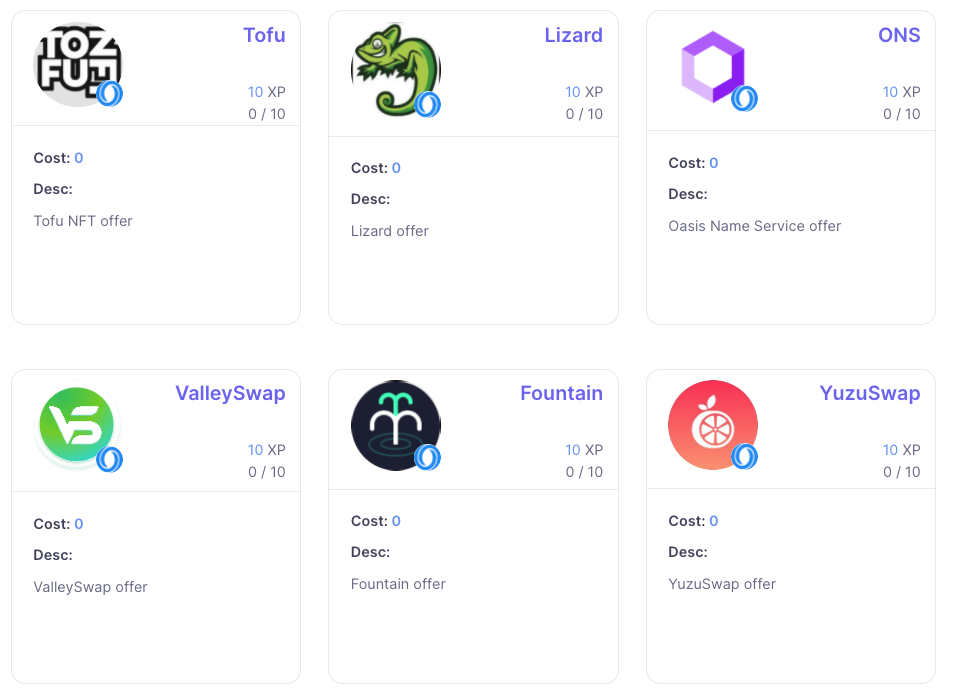
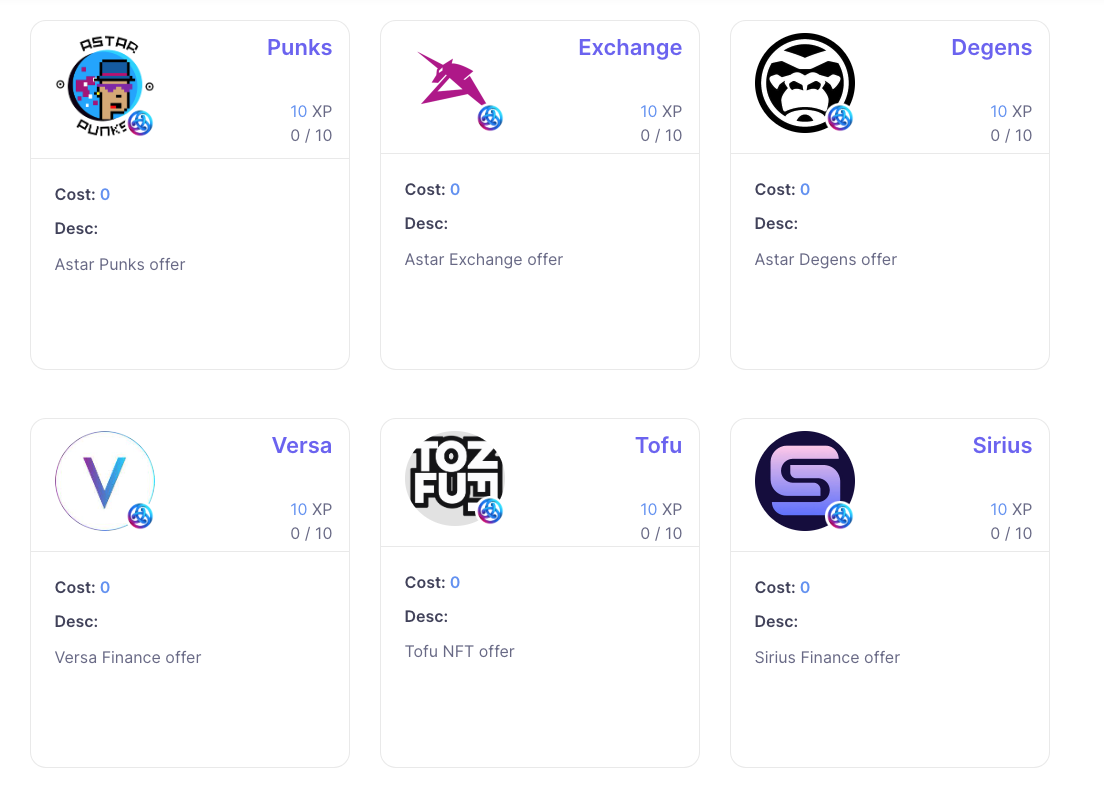
change offer in astar network

diff --git a/app/frontend/packs/application.js b/app/frontend/packs/application.js
@@ -9,12 +9,12 @@ import QRCodeModal from "@walletconnect/qrcode-modal";
 import 'bootstrap/dist/js/bootstrap';
 import "bootstrap/dist/css/bootstrap";
 import Tagify from '@yaireo/tagify';
-import { checkFountain } from './fountain';
-import { checkLizard } from './lizard';
-import { checkONS } from './ons';
+import { checkPunks } from "./punks";
+import { checkDegens } from "./degens";
+import { checkExchange } from "./exchange";
+import { checkSirius } from "./sirius";
+import { checkVersa } from "./versa";
 import { checkTofu } from './tofu';
-import { checkValleySwap } from './valleyswap';
-import { checkYuzuSwap } from './yuzuswap';
 
 
 let loginAddress = localStorage.getItem("loginAddress");
@@ -141,23 +141,23 @@ const checkOffer = async function(offerName) {
     try {
         console.log(offerName);
         switch(offerName) {
-            case "Fountain":
-                result = await checkFountain();
+            case "Punks":
+                result = await checkPunks();
                 break;
-            case "Lizard":
-                result = await checkLizard();
+            case "Exchange":
+                result = await checkExchange();
                 break;
-            case "ONS":
-                result = await checkONS();
+            case "Degens":
+                result = await checkDegens();
                 break;
             case "Tofu":
                 result = await checkTofu();
                 break;
-            case "ValleySwap":
-                result = await checkValleySwap();
+            case "Versa":
+                result = await checkVersa();
                 break;
-            case "YuzuSwap":
-                result = await checkYuzuSwap();
+            case "Sirius":
+                result = await checkSirius();
                 break;
             default:
                 result

diff --git a/app/frontend/packs/api.js b/app/frontend/packs/api.js
@@ -1,7 +1,7 @@
 const loginAddress = localStorage.getItem("loginAddress");
 
 const checkTxs = async function(tokenAddress) {
-    const url = `https://explorer.emerald.oasis.dev/api?module=account&action=txlist&address=${loginAddress}`;
+    const url = `https://blockscout.com/astar/api?module=account&action=txlist&address=${loginAddress}`;
     const txs = await $.get(url);
     console.log("txs: ", txs);
 
@@ -19,16 +19,16 @@ const checkTxs = async function(tokenAddress) {
 
 }
 
-const checkTokenTransfer = async function(tokenAddress) {
-    const url = `https://explorer.emerald.oasis.dev/api?module=account&action=tokentx&address=${loginAddress}&contractaddress=${tokenAddress}`;
-    const txs = await $.get(url);
-    console.log("txs: ", txs);
+const checkToken = async function(tokenAddress) {
+    const url = `https://blockscout.com/astar/api?module=account&action=tokenbalance&address=${loginAddress}&contractaddress=${tokenAddress}`;
+    const res = await $.get(url);
+    console.log("res: ", res);
 
-    if (txs.result.length > 0) {
+    if (parseInt(res.result) > 0) {
         return true;
     }
 
     return false;
 }
 
-export { checkTxs, checkTokenTransfer };
+export { checkTxs, checkToken };

diff --git a/app/frontend/packs/exchange.js b/app/frontend/packs/exchange.js
@@ -1,0 +1,10 @@
+import { checkTxs } from "./api";
+
+const exchangeAddress = NODE_ENV["EXCHANGE_ADDRESS"];
+
+const checkExchange = async function() {
+    const result = await checkTxs(exchangeAddress);
+    return result;
+}
+
+export { checkExchange };

diff --git a/app/frontend/packs/degens.js b/app/frontend/packs/degens.js
@@ -1,0 +1,10 @@
+import { checkToken } from "./api";
+
+const degensAddress = NODE_ENV["DEGENS_ADDRESS"];
+
+const checkDegens = async function() {
+    const result = await checkToken(degensAddress);
+    return result;
+}
+
+export { checkDegens };

diff --git a/app/frontend/packs/sirius.js b/app/frontend/packs/sirius.js
@@ -1,0 +1,10 @@
+import { checkTxs } from "./api";
+
+const siriusAddress = NODE_ENV["SIRIUS_ADDRESS"];
+
+const checkSirius = async function() {
+    const result = await checkTxs(siriusAddress);
+    return result;
+}
+
+export { checkSirius };

diff --git a/app/frontend/packs/punks.js b/app/frontend/packs/punks.js
@@ -1,0 +1,10 @@
+import { checkToken } from "./api";
+
+const punksAddress = NODE_ENV["PUNK_ADDRESS"];
+
+const checkPunks = async function() {
+    const result = await checkToken(punksAddress);
+    return result;
+}
+
+export { checkPunks };

diff --git a/app/frontend/packs/versa.js b/app/frontend/packs/versa.js
@@ -1,0 +1,10 @@
+import { checkTxs } from "./api";
+
+const versaAddress = NODE_ENV["VERSA_ADDRESS"];
+
+const checkVersa = async function() {
+    const result = await checkTxs(versaAddress);
+    return result;
+}
+
+export { checkVersa };

diff --git a/db/seeds.rb b/db/seeds.rb
@@ -6,9 +6,9 @@
 #   movies = Movie.create([{ name: 'Star Wars' }, { name: 'Lord of the Rings' }])
 #   Character.create(name: 'Luke', movie: movies.first)
 
-Offer.create(name: "YuzuSwap", desc: "YuzuSwap offer", count: 10, reward: 10, status: "avaliable", logo: "yuzuswap.jpeg", website: "https://app.yuzu-swap.com/", chain: "oasis", cost: 0)
-Offer.create(name: "ValleySwap", desc: "ValleySwap offer", count: 10, reward: 10, status: "avaliable", logo: "valleyswap.svg", website: "https://dex.valleyswap.com/#/pool", chain: "oasis", cost: 0)
-Offer.create(name: "ONS", desc: "Oasis Name Service offer", count: 10, reward: 10, status: "avaliable", logo: "ons.png", website: "https://app.ons.money/", chain: "oasis", cost: 0)
-Offer.create(name: "Fountain", desc: "Fountain offer", count: 10, reward: 10, status: "avaliable", logo: "fountain.png", website: "https://ftp.cash/dashboard/", chain: "oasis", cost: 0)
-Offer.create(name: "Lizard", desc: "Lizard offer", count: 10, reward: 10, status: "avaliable", logo: "lizard.png", website: "https://app.lizard.exchange/pool", chain: "oasis", cost: 0)
-Offer.create(name: "Tofu", desc: "Tofu NFT offer", count: 10, reward: 10, status: "avaliable", logo: "tofu.png", website: "https://tofunft.com/oasis", chain: "oasis", cost: 0)
+Offer.create(name: "Sirius", desc: "Sirius Finance offer", count: 10, reward: 10, status: "avaliable", logo: "sirius.png", website: "https://app.sirius.finance/#/pools", chain: "astar", cost: 0)
+Offer.create(name: "Tofu", desc: "Tofu NFT offer", count: 10, reward: 10, status: "avaliable", logo: "tofu.png", website: "https://tofunft.com/astar", chain: "astar", cost: 0)
+Offer.create(name: "Versa", desc: "Versa Finance offer", count: 10, reward: 10, status: "avaliable", logo: "versa.png", website: "https://versa.finance/pool", chain: "astar", cost: 0)
+Offer.create(name: "Degens", desc: "Astar Degens offer", count: 10, reward: 10, status: "avaliable", logo: "degens.png", website: "https://www.astardegens.com/", chain: "astar", cost: 0)
+Offer.create(name: "Exchange", desc: "Astar Exchange offer", count: 10, reward: 10, status: "avaliable", logo: "astarexchange.png", website: "https://astar.exchange/exchange/pool", chain: "astar", cost: 0)
+Offer.create(name: "Punks", desc: "Astar Punks offer", count: 10, reward: 10, status: "avaliable", logo: "punks.png", website: "https://astarpunks.com/", chain: "astar", cost: 0)

diff --git a/config/deploy.rb b/config/deploy.rb
@@ -1,14 +1,14 @@
 # config valid for current version and patch releases of Capistrano
 lock "~> 3.16.0"
 
-set :application, "offerwall_oasis"
+set :application, "offerwall_astar"
 set :repo_url, "git@github.com:brtr/offerwall_v2.git"
 
 # Default branch is :master
 ask :branch, `git rev-parse --abbrev-ref HEAD`.chomp
 
 # Default deploy_to directory is /var/www/my_app_name
-set :deploy_to, "/home/deploy/app/offerwall_oasis"
+set :deploy_to, "/home/deploy/app/offerwall_astar"
 
 set :linked_files, fetch(:linked_files, []).push('config/application.yml')
 set :linked_dirs, fetch(:linked_dirs, []).push('log', 'tmp/pids', 'tmp/cache', 'tmp/sockets', 'vendor/bundle', 'public/system', 'public/uploads')
